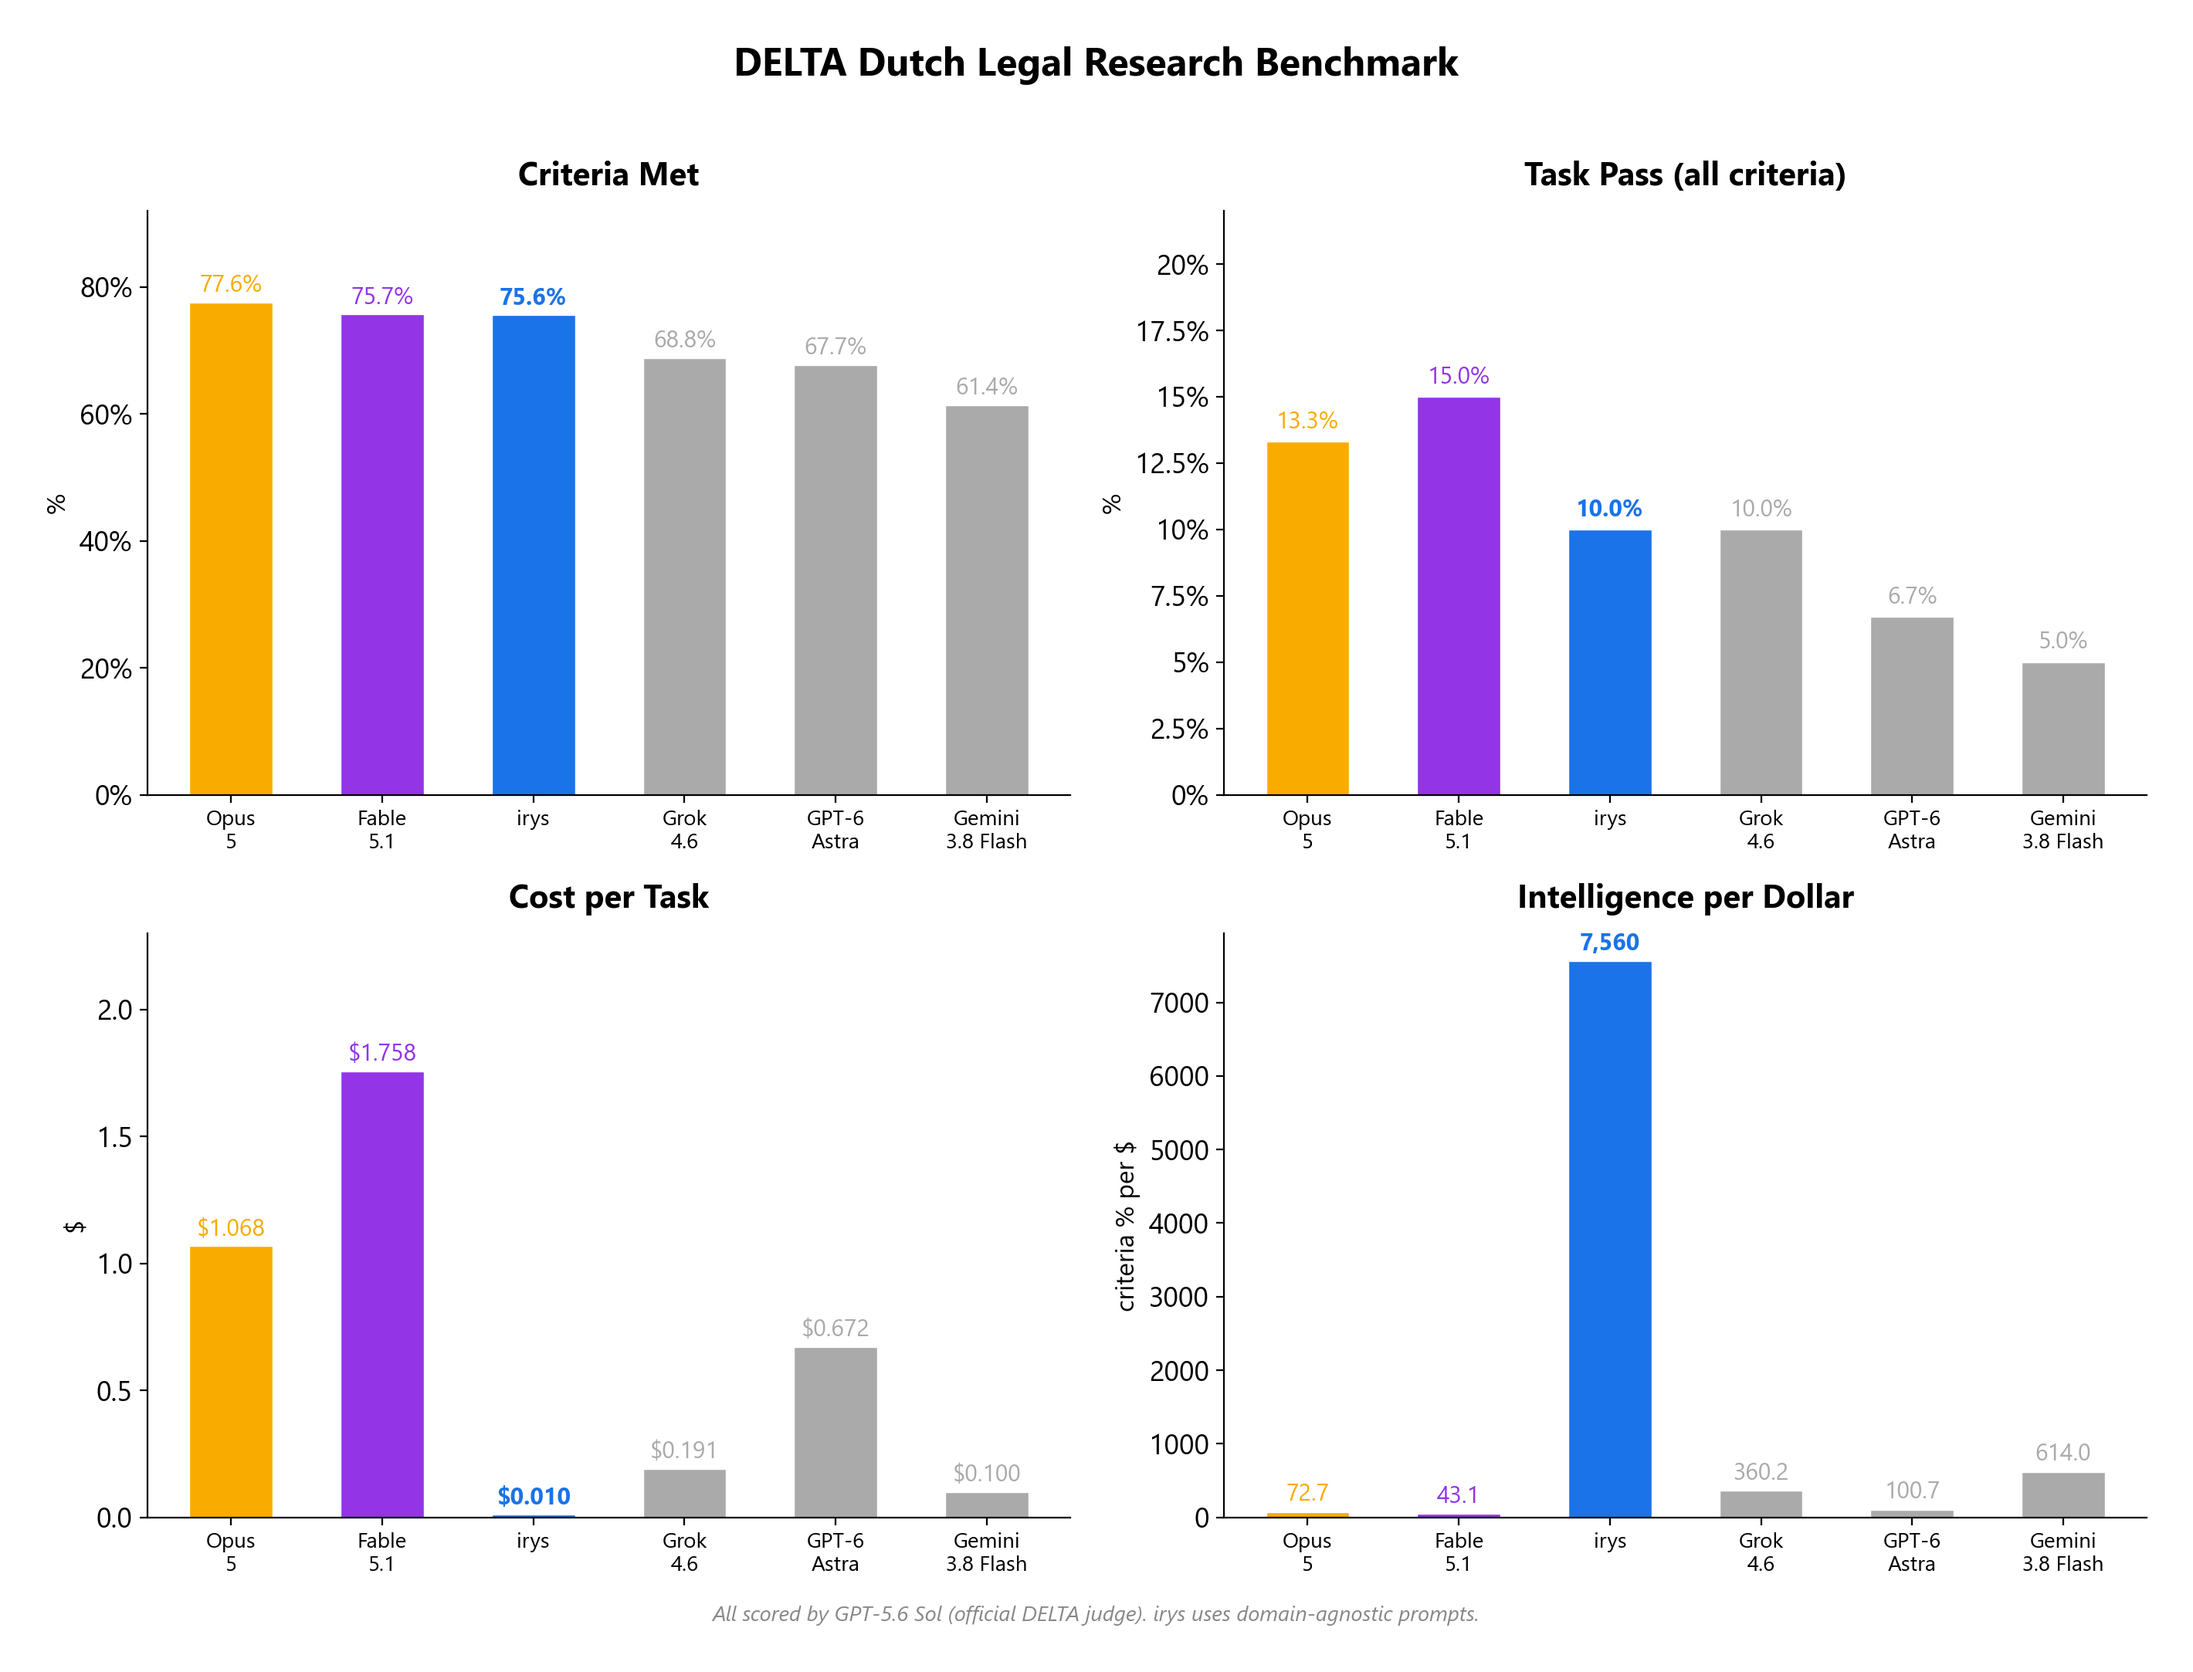
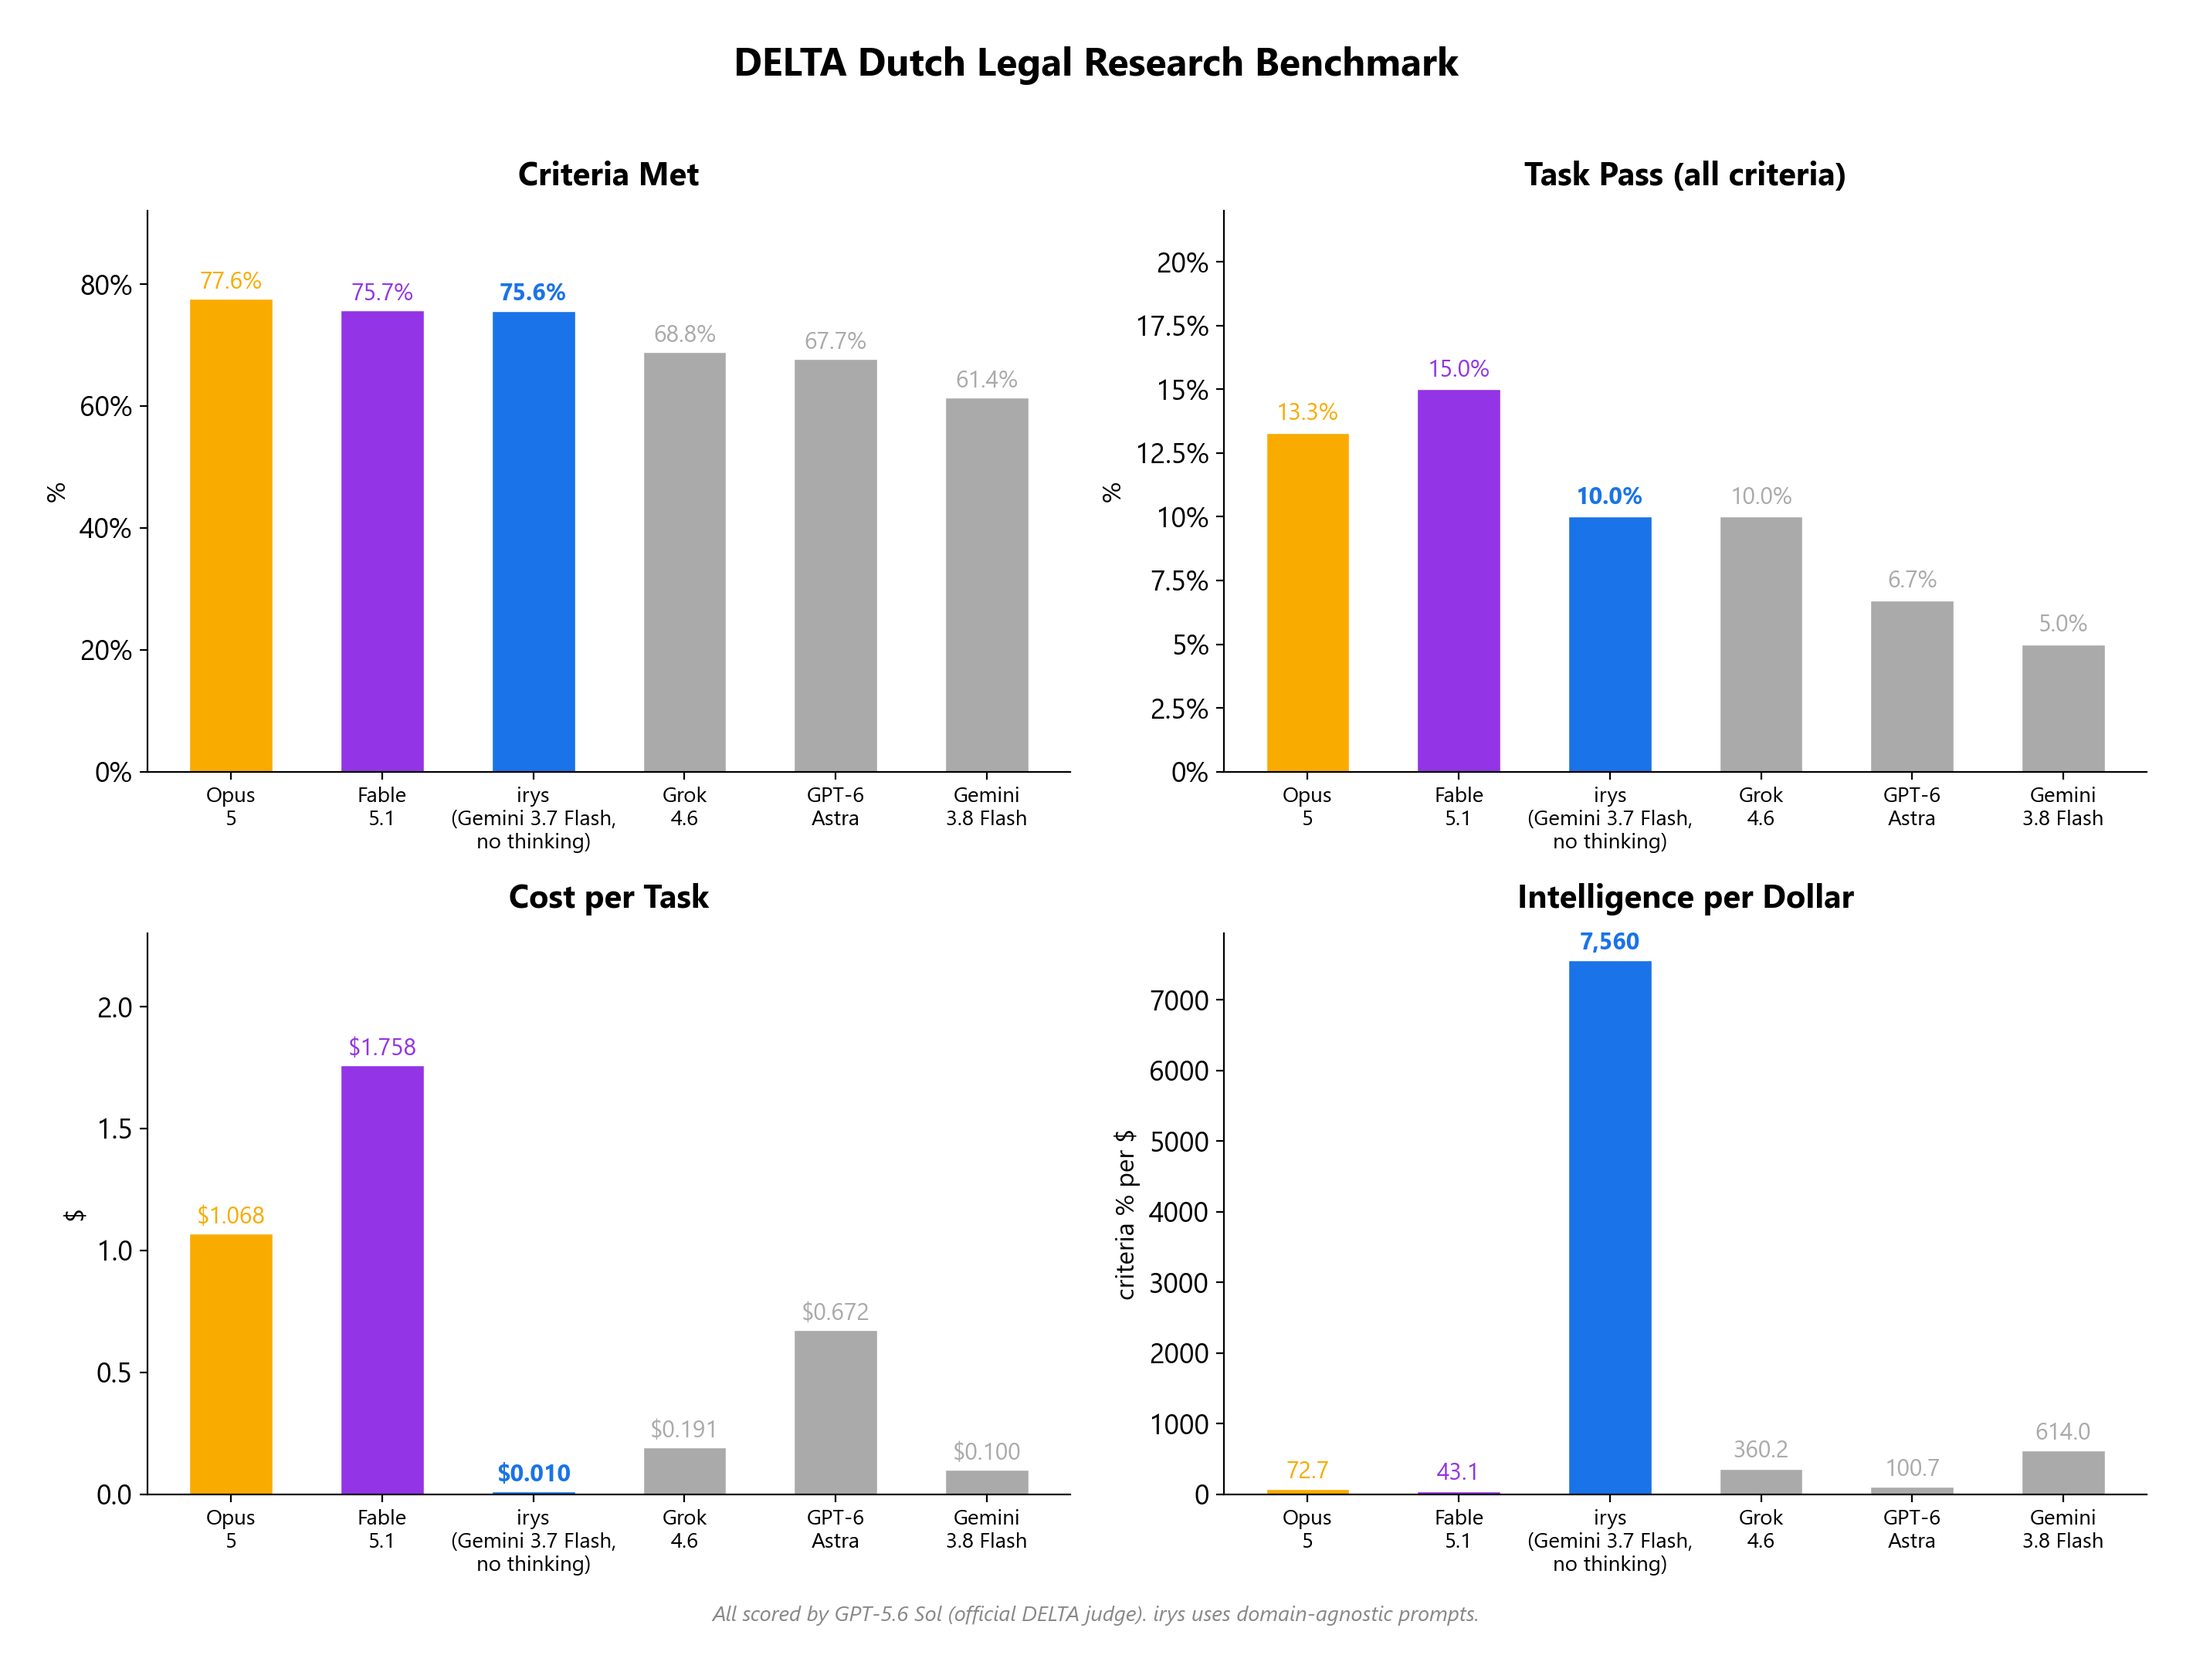
Add model attribution to benchmark chart labels
Committed by Devansh

diff --git a/assets/generate_charts.py b/assets/generate_charts.py
@@ -223,7 +223,7 @@ plt.close()
 fig, ax = plt.subplots(figsize=(10, 6))
 
 delta_scatter = [
-    ('irys', 0.010, 75.6, IRYS),
+    ('irys (Gemini 3.7 Flash, no thinking)', 0.010, 75.6, IRYS),
     ('Opus 5', 1.068, 77.6, OPUS),
     ('Fable 5.1', 1.758, 75.7, FABLE),
     ('Grok 4.6', 0.191, 68.8, OTHER),
@@ -237,7 +237,7 @@ for name, cost, criteria, color in delta_scatter:
     offset_y = 0
     if name == 'Gemini 3.8 Flash':
         offset_y = -3
-    if name == 'irys':
+    if name.startswith('irys'):
         offset_x = 8
         offset_y = -1
     if name == 'Grok 4.6':
@@ -270,7 +270,7 @@ plt.close()
 # ── Chart 9: DELTA Consolidated Dashboard (2x2) ──
 fig, axes = plt.subplots(2, 2, figsize=(14, 10))
 
-systems = ['Opus\n5', 'Fable\n5.1', 'irys', 'Grok\n4.6', 'GPT-6\nAstra', 'Gemini\n3.8 Flash']
+systems = ['Opus\n5', 'Fable\n5.1', 'irys\n(Gemini 3.7 Flash,\nno thinking)', 'Grok\n4.6', 'GPT-6\nAstra', 'Gemini\n3.8 Flash']
 colors = [OPUS, FABLE, IRYS, OTHER, OTHER, OTHER]
 criteria = [77.6, 75.7, 75.6, 68.8, 67.7, 61.4]
 task_pass = [13.3, 15.0, 10.0, 10.0, 6.7, 5.0]
